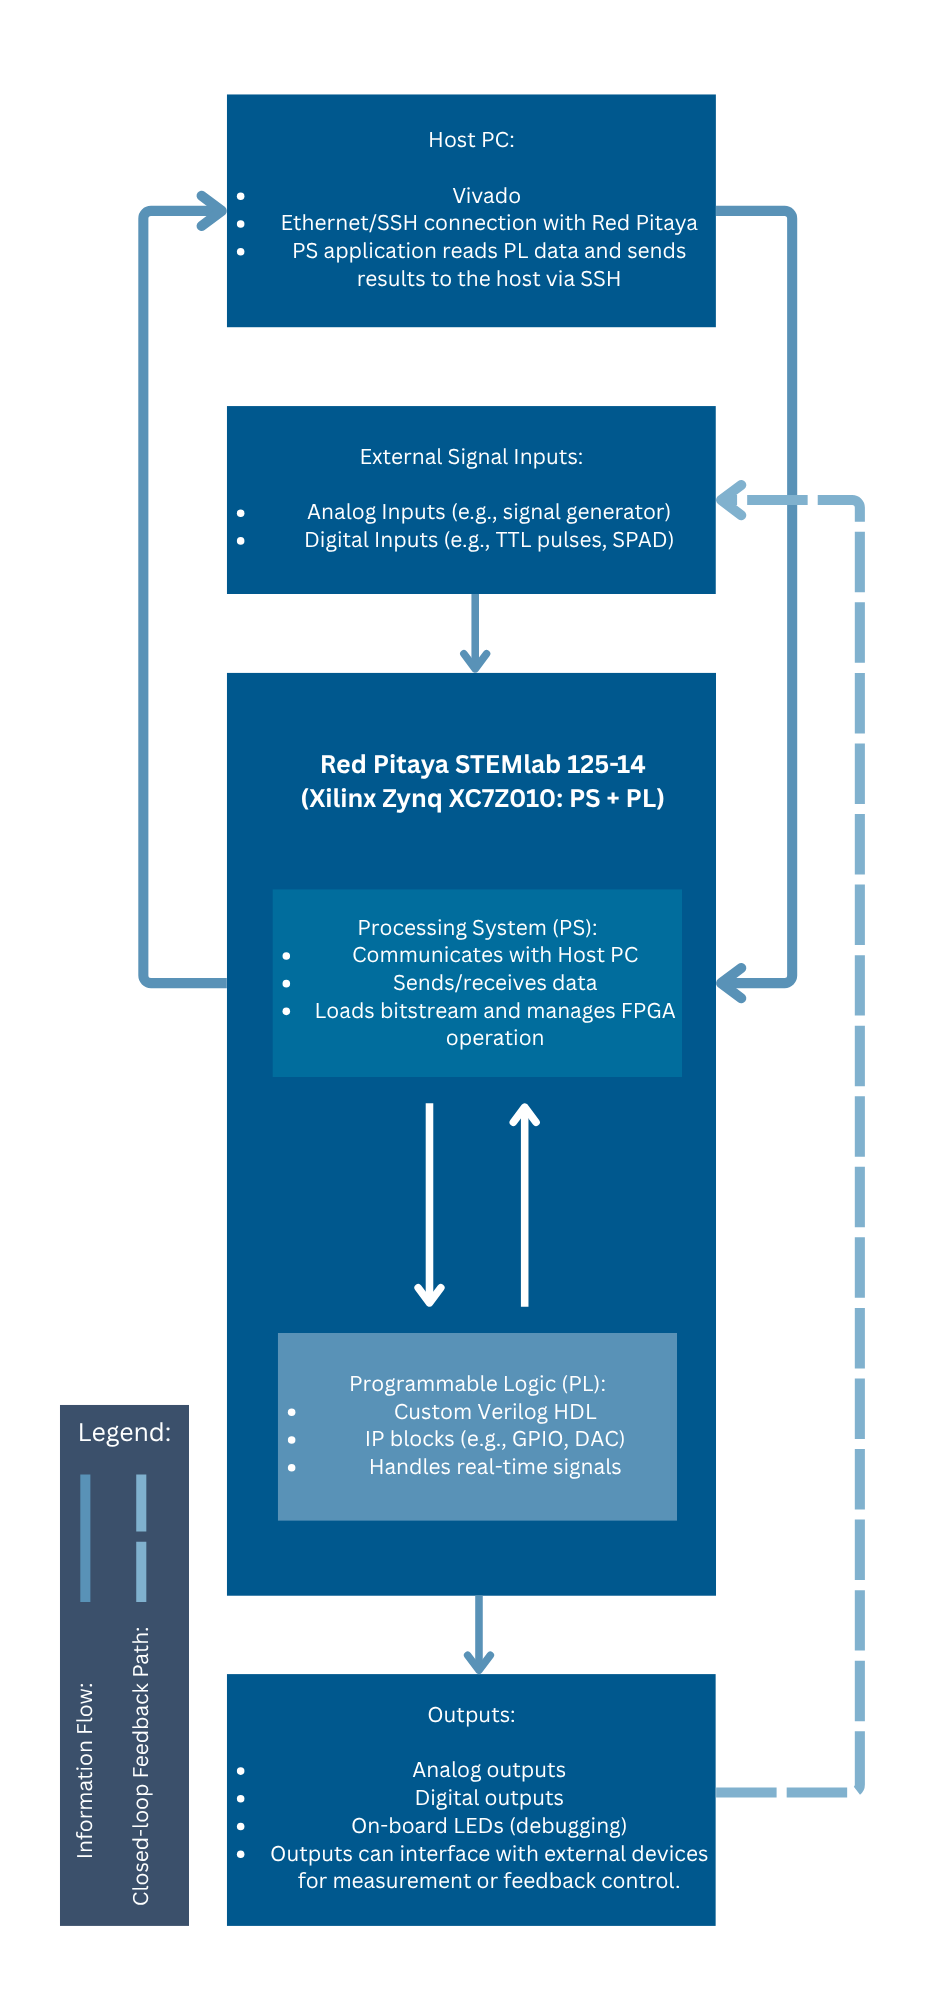
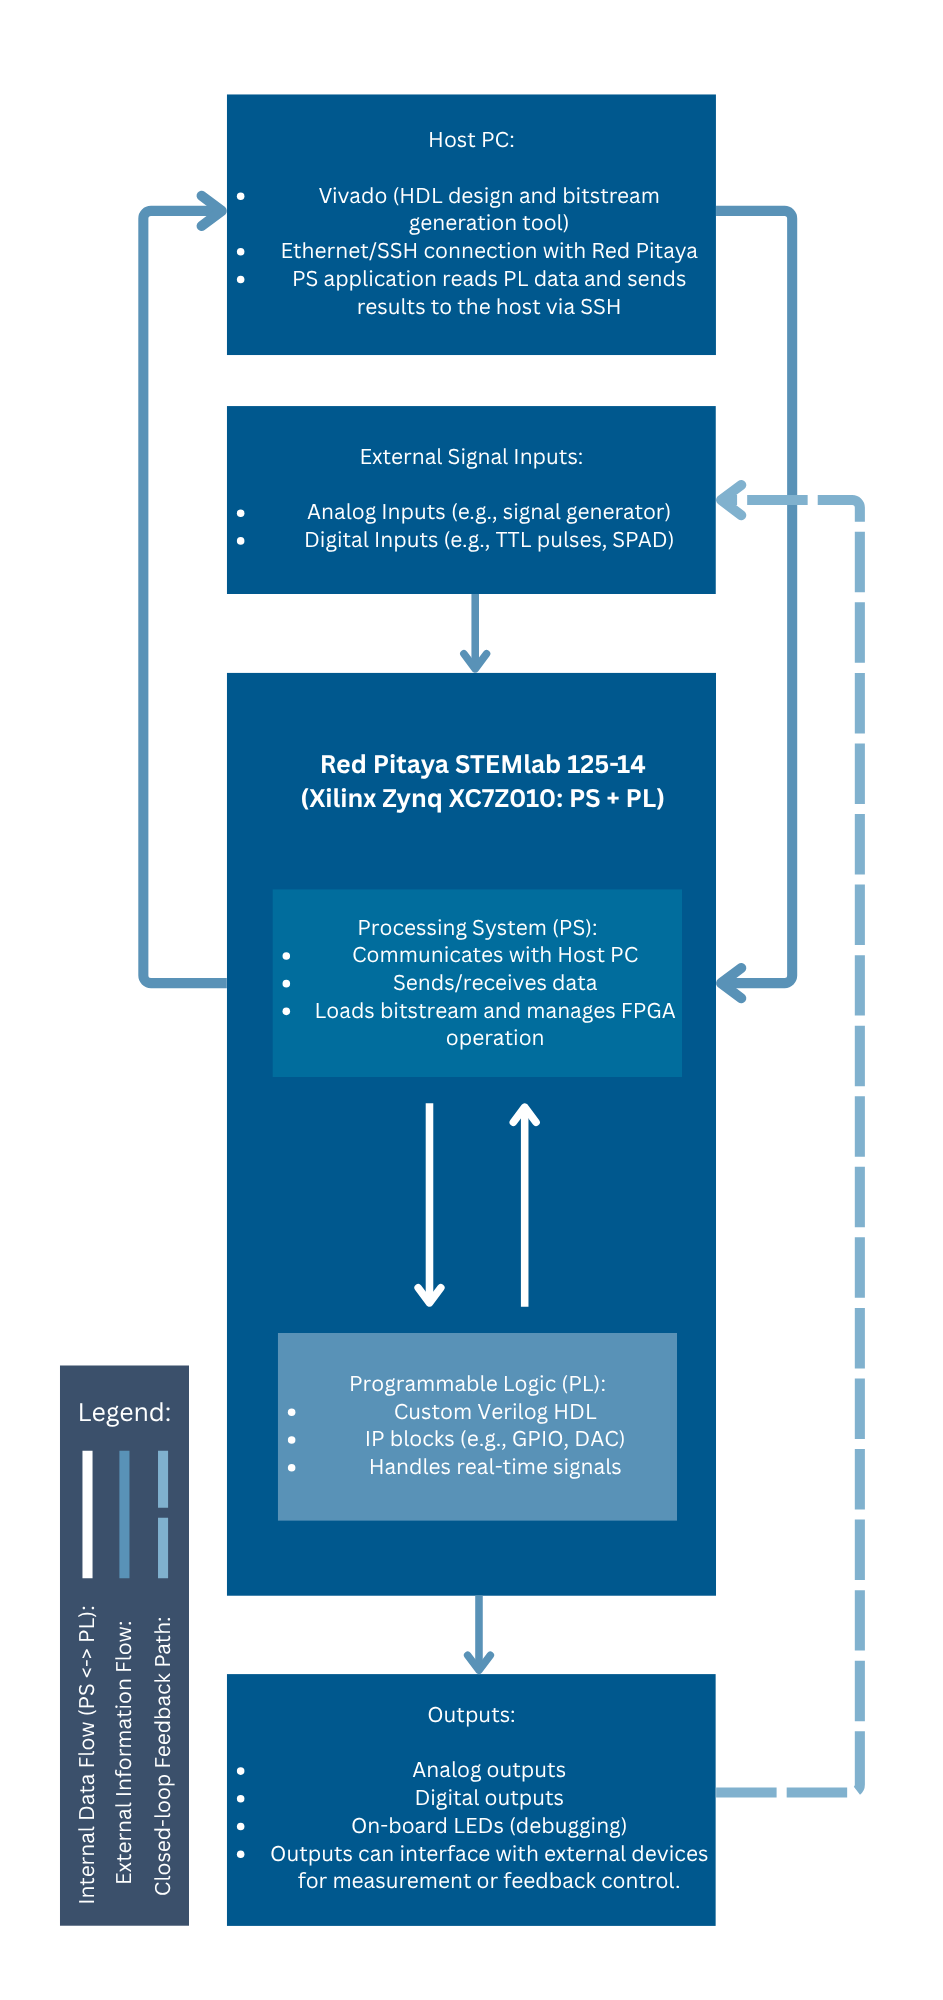
revisions

Changed region(s): [[0.246, 0.093, 0.7688, 0.186], [0.0615, 0.682, 0.2153, 0.961]]

diff --git a/projects/pulse_counter.md b/projects/pulse_counter.md
@@ -4,7 +4,7 @@
 
 - **Pulse Counting Logic:**
     - Introduction to LVTTL pulse signals and their characteristics
-    - Detecting via digital E1 pins and counting LVTTL pulses (e.g., photon or TTL events) using FPGA logic
+    - Detecting pulses via digital E1 pins and counting using FPGA logic
     - Understanding integration windows and dead time to prevent multiple counts from a single pulse
     - Interfacing the counter with existing IP blocks such as the DAC, Clocking Wizard, and GPIO. 
 
@@ -254,7 +254,7 @@ This section is relevant if you connect the Red Pitaya DAC to an oscilloscope an
     - Confirm what values are sent into and out of the DAC module (e.g., after any bit inversions).
     - Measure or simulate the DAC output to understand how the Red Pitaya converts those codes into voltage.
 
-- It’s best to trace this end-to-end—from the Verilog counter to the SMA output—to confirm the exact polarity and scaling on your setup. Some other resources that might be helpful:
+- It’s best to trace this end-to-end from the Verilog counter to the SMA output in order to confirm the exact polarity and scaling on your setup. Some other resources that might be helpful:
 
     - [Red Pitaya Schematics v1.0.1](https://downloads.redpitaya.com/doc/Red_Pitaya_Schematics_v1.0.1.pdf)
     - [AD9763/AD9765/AD9767 Datasheet](https://www.analog.com/media/en/technical-documentation/data-sheets/AD9763_9765_9767.pdf)
@@ -505,7 +505,7 @@ $${t_\mathrm{high}} = \text{the time the signal stays high in one cycle}$$
 $${T_\mathrm{period}} = \text{the total time of one complete cycle}$$
 
 - Which E1 pins to connect:
-    - Connect the wire recieving the pin to DIO_0 and the the ground to GND.
+    - Connect the wire recieving the signal to pin DIO_0P and the ground to GND.
 
 ![extension_connectors](/images/red_pitaya/extension_connectors.png)
 ![e1_connection](/images/photon_counter/e1_connection.JPEG)
@@ -525,7 +525,7 @@ $${T_\mathrm{period}} = \text{the total time of one complete cycle}$$
     - Confirm what values are sent into and out of the DAC module (e.g., after any bit inversions).
     - Measure or simulate the DAC output to understand how the Red Pitaya converts those codes into voltage.
 
-- It’s best to trace this end-to-end—from the Verilog counter to the SMA output—to confirm the exact polarity and scaling on your setup. Some other resources that might be helpful:
+- It’s best to trace this end-to-end from the Verilog counter to the SMA output in order to confirm the exact polarity and scaling of the setup. Some other resources that might be helpful:
 
     - [Red Pitaya Schematics v1.0.1](https://downloads.redpitaya.com/doc/Red_Pitaya_Schematics_v1.0.1.pdf)
     - [AD9763/AD9765/AD9767 Datasheet](https://www.analog.com/media/en/technical-documentation/data-sheets/AD9763_9765_9767.pdf)
@@ -601,7 +601,7 @@ $${T_\mathrm{period}} = \text{the total time of one complete cycle}$$
         - For reference, look at [Vivado Design Suite 7 Series FPGA and Zynq 7000 SoC Libraries Guide (UG953)](https://docs.amd.com/r/en-US/ug953-vivado-7series-libraries/XPM_CDC_SINGLE), which also includes Verilog and VHDL instantiation templates that you can adapt and embed directly inside your counter module if preferred.
 
 ### PID
-- During the internship, I began wiring the counter output into a PID controller but didn't have time to finish testing: [PID by Ben Millward](https://github.com/Bentwin2002/Group_IV_RP/blob/1916aeb4dfb7fd2a1658bcffc84c78c3ad14fbd9/Complete_setup/tmp/wip_9/wip_9.srcs/sources_1/new/PID_FINAL_b.v)
+- During the internship, I began wiring the counter output into [Ben Millward's PID](https://github.com/Bentwin2002/Group_IV_RP/blob/1916aeb4dfb7fd2a1658bcffc84c78c3ad14fbd9/Complete_setup/tmp/wip_9/wip_9.srcs/sources_1/new/PID_FINAL_b.v) but didn't have time to complete testing. 
 
 ## References:
 

diff --git a/projects/signal_passthrough_adc_dac.md b/projects/signal_passthrough_adc_dac.md
@@ -17,7 +17,11 @@ It covers:
 - **Design Integration:**
     - Building a simple signal passthrough system (ADC → DAC) in Vivado 
     - Connecting and Configuring the IP blocks and Clocking Wizard
-
+- **Quick Links:**
+    - [Tutorial](/projects/signal_passthrough_adc_dac.md#tutorial)
+    - [Testing](/projects/signal_passthrough_adc_dac.md#testing)
+    - [References](/projects/signal_passthrough_adc_dac.md#references)
+    
 By the end of this section, you’ll understand how to route real analogue signals through the FPGA, manage multiple clock domains, and prepare a foundation for inserting your own processing logic (e.g., filters, PID controllers) between the ADC and DAC.
 
 ## Background:
@@ -89,15 +93,31 @@ Later, custom processing logic can be inserted between the ADC and DAC blocks (e
 
 - [Go to Section Connecting to your Red Pitaya of the Set Up Guide](/introduction/setup_guide.md#connecting-to-your-red-pitaya)
 
-### Step 4: Test
+## Testing
 
-- [Generate bitstream and upload to red pitaya](/introduction/setup_guide.md#connecting-to-your-red-pitaya)
+### Step 1: Connect signal generator and oscilloscope to Red Pitaya
 
-- Connect a signal generator to one of the Red Pitaya’s inputs and an oscilloscope to one of its outputs. Verify that the waveform observed on the oscilloscope matches the signal generated.
-
+- Connect a signal generator to one of the Red Pitaya’s inputs and an oscilloscope to one of its outputs.
 - Make sure to [impedance-match](/introduction/red_pitaya.md#outputs-out1-out2) the Red Pitaya output to the oscilloscope input. Both should be terminated at 50 Ω to prevent signal reflections and distortion.
 
-- Also confirm that the signal generator's peak-to-peak voltage (Vpp) is within the Red Pitaya's supported input range which is [±1V or ±20V range depending on configuration](/introduction/red_pitaya.md#inputs-in1-in2). 
+![input_output_connections](/images/signal_passthrough/input_output_connections.JPEG)
+**Figure 4:** Connections on the Red Pitaya for signal passthrough verfication.
+
+![set_up](/images/signal_passthrough/set_up.JPEG)
+**Figure 6:** Complete experimental setup.
+
+### Step 2: Configure your signal generator
+
+- Make sure that the signal generator's peak-to-peak voltage (Vpp) is within the Red Pitaya's supported input range which is [±1V or ±20V range depending on configuration](/introduction/red_pitaya.md#inputs-in1-in2). 
+
+![signal_generator](/images/signal_passthrough/signal_generator.JPEG)
+**Figure 5:** Example configuration on signal generator.
+
+### Step 3: Observe Waveform on oscilloscope
+- Verify that the waveform observed on the oscilloscope matches the signal generated.
+
+![oscilloscope](/images/signal_passthrough/oscilloscope.JPEG)
+**Figure 7:** Output waveform observed on the oscilloscope.
 
 ## References
 

diff --git a/introduction/vivado_overview.md b/introduction/vivado_overview.md
@@ -72,6 +72,11 @@ When you add these cores to your project, they show up as blocks you can drag in
 **Figure 3: Clock configuration menu inside the Zynq7 Processing System IP.**
 
 - You'll see that the `FCLK_CLK0` is connected to `M_AXI_GP0_ACLK` and `S_AXI_HP0_ACLK`. These are clock inputs for the AXI interfaces that connect the processor system (PS) to the programmable logic (PL).[^2]
+- As mentioned in the Figure 1 caption, these connections don't occur automatically and were connected by `block_design.tcl.` I have pasted the lines from the `project/block_design.tcl` file. The connections can be changed later in Vivado.
+    ```tcl
+    connect_bd_net [get_bd_pins processing_system7_0/M_AXI_GP0_ACLK] [get_bd_pins processing_system7_0/FCLK_CLK0]
+    connect_bd_net [get_bd_pins processing_system7_0/S_AXI_HP0_ACLK] [get_bd_pins processing_system7_0/FCLK_CLK0]
+    ```
 
 - **What is AXI?**
     - AXI is a standard way of moving data between different parts of a chip (like CPU, memory, and FPGA logic). It is a common set of wires and rules that PS/PL IPs use to move data. It always needs a clock so that both sides know when to read or write signals. This is covered in more detail in the [Background section](/projects/led_control_gpio.md#background) of the LED Control (GPIO) project.
@@ -208,9 +213,6 @@ set_property PACKAGE_PIN V13 [get_ports {adc_dat_a_i[10]}]
 set_property PACKAGE_PIN T14 [get_ports {adc_dat_a_i[11]}]
 set_property PACKAGE_PIN T15 [get_ports {adc_dat_a_i[12]}]
 set_property PACKAGE_PIN V15 [get_ports {adc_dat_a_i[13]}]
-set_property PACKAGE_PIN T16 [get_ports {adc_dat_a_i[14]}]
-set_property PACKAGE_PIN V16 [get_ports {adc_dat_a_i[15]}]
-
 ```
 
 ### First two lines

diff --git a/introduction/setup_guide.md b/introduction/setup_guide.md
@@ -140,7 +140,7 @@ The method you use depends on which version of the Red Pitaya OS your board is r
 ```bash
 cd <Path/to/repository>/tmp/Calibration/Calibration.runs/impl1
 ```
-3. Transfer the .bit file to the Red Pitaya. On Linux/macOS, you can use scp; on Windows you can use WinSCP or an equivalent tool:
+3. Transfer the .bit file to the Red Pitaya. On Linux/macOS, you can use `scp`; on Windows you can use WinSCP or an equivalent tool:
 You can re-name the `system_wrapper.bit` after `root/` to a name you prefer but just remember to be consistent and use that when you upload your bitstream.
 ```bash
 scp system_wrapper.bit root@rp-xxxxxx.local:/root/system_wrapper.bit
@@ -175,7 +175,7 @@ bootgen -image system_wrapper.bif -arch zynq -process_bitstream bin -o system_wr
 echo -n "all:{ system_wrapper.bit }" >  system_wrapper.bif
 bootgen -image system_wrapper.bif -arch zynq -process_bitstream bin -o system_wrapper.bit.bin -w
 ```
-3. Transfer the .bit file to the Red Pitaya. On Linux/macOS, you can use `scp`; on Windows you can use WinSCP or an equivalent tool. You can replace the "led_blink.bit.bin" with what you want to call the file:
+3. Transfer the .bit.bin file to the Red Pitaya. On Linux/macOS, you can use `scp`; on Windows you can use WinSCP or an equivalent tool. You can replace the "led_blink.bit.bin" with what you want to call the file:
 ```bash
 scp system_wrapper.bit.bin root@rp-xxxxxx.local:/root/led_blink.bit.bin
 ```
@@ -187,7 +187,7 @@ ssh root@rp-xxxxxx.local
 ```bash
 ls
 ```
-6. Program the FPGA with the uploaded `.bin` file:
+6. Program the FPGA with the uploaded `.bit.bin` file:
 ```bash
 fpgautil -b led_blink.bit.bin
 ```

diff --git a/projects/led_blink.md b/projects/led_blink.md
@@ -19,7 +19,10 @@ It covers:
 - **Connecting to hardware:**
   - Linking the processed signal to the `led_o` port.
   - Generating the bitstream and uploading it to the Red Pitaya
-
+- **Quick Links:**
+  - [Tutorial](/projects/led_blink.md#tutorial)
+  - [References](/projects/led_blink.md#references)
+  
 By the end of this section, you’ll understand how to use IP cores, work with clocks and counters, and build your first working FPGA project on the Red Pitaya.
 
 ## Background
@@ -194,7 +197,8 @@ With this setup, the chosen LED will now blink roughly once per second.
 
 ## Step 6: Upload to Red Pitaya
 
-[Connect to your Red Pitaya](/introduction/setup_guide.md/#connecting-to-your-red-pitaya)
+- [Connect to your Red Pitaya](/introduction/setup_guide.md/#connecting-to-your-red-pitaya)
+- One the bitstream file has been successfully uploaded onto your Red Pitaya, you should see LED 0 blinking automatically!
 
 ## Learner's tip
 

diff --git a/README.md b/README.md
@@ -1,6 +1,6 @@
 # FPGA Internship Documentation
 
-This repository documents my learning process during an eight-week summer internship with the Quantum Engineering Group. It includes setup guides, project walkthroughs, and technical notes developed while working with the **Red Pitaya STEMlab 125-14 (Gen 1)** using **Vivado** and **Verilog.**
+This repository is documentation for my eight-week summer internship with the Quantum Engineering Group. It includes setup guides, project walkthroughs, and technical notes developed while working with the **Red Pitaya STEMlab 125-14 (Gen 1)** using **Vivado** and **Verilog.**
 
 ![high_level_system_overview](/images/read_me/high_level_system_overview.png)
 

diff --git a/projects/led_control_gpio.md b/projects/led_control_gpio.md
@@ -20,6 +20,10 @@ It covers:
   - Adding and customising the AXI GPIO IP core
   - Writing values into the GPIO register from the CPU to turn LEDs on/off
 
+- **Quick Links:**
+  - [Tutorial](/projects/led_control_gpio.md#tutorial)
+  - [References](/projects/led_control_gpio.md#references)
+  
 By the end of this section, you’ll understand how the PS and PL exchange information over AXI, and you’ll control the LEDs directly from the processor using a memory-mapped GPIO block.
 
 ## Background
